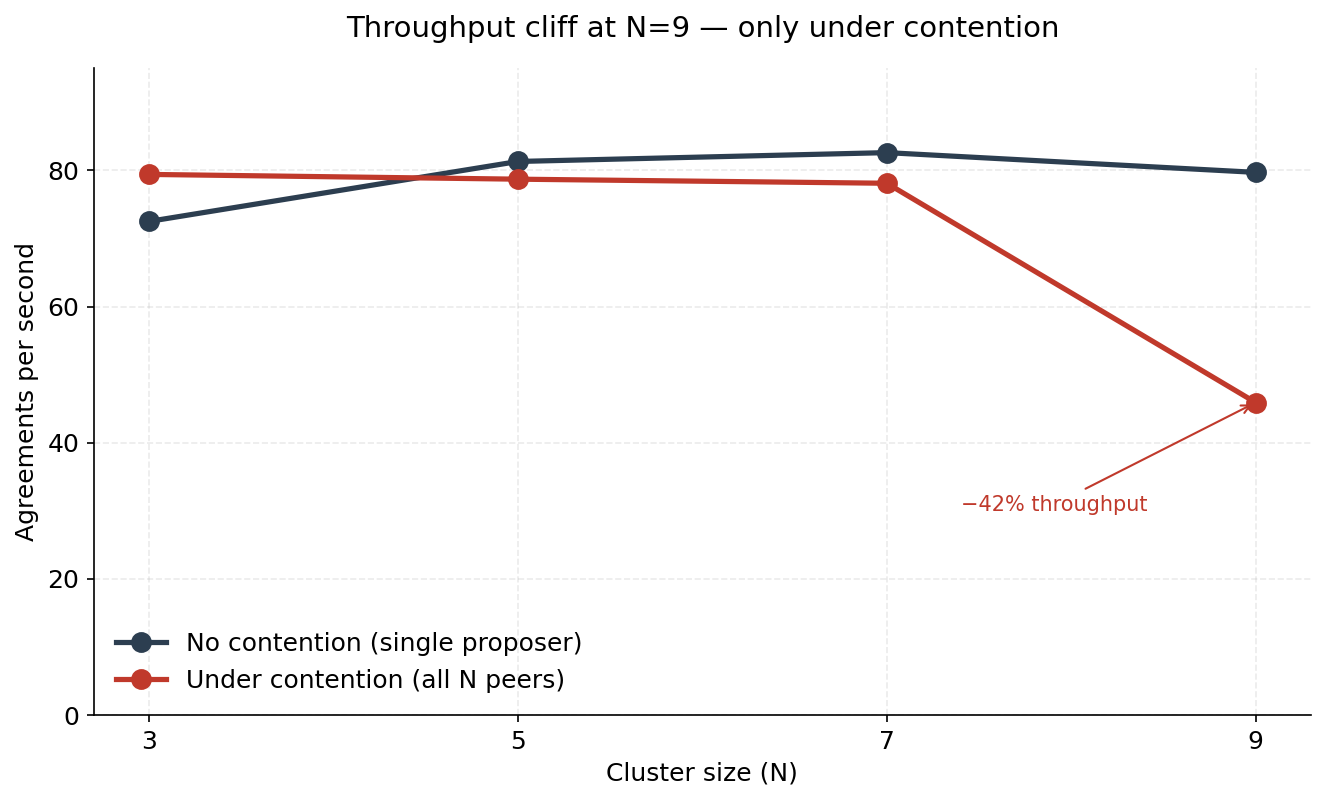
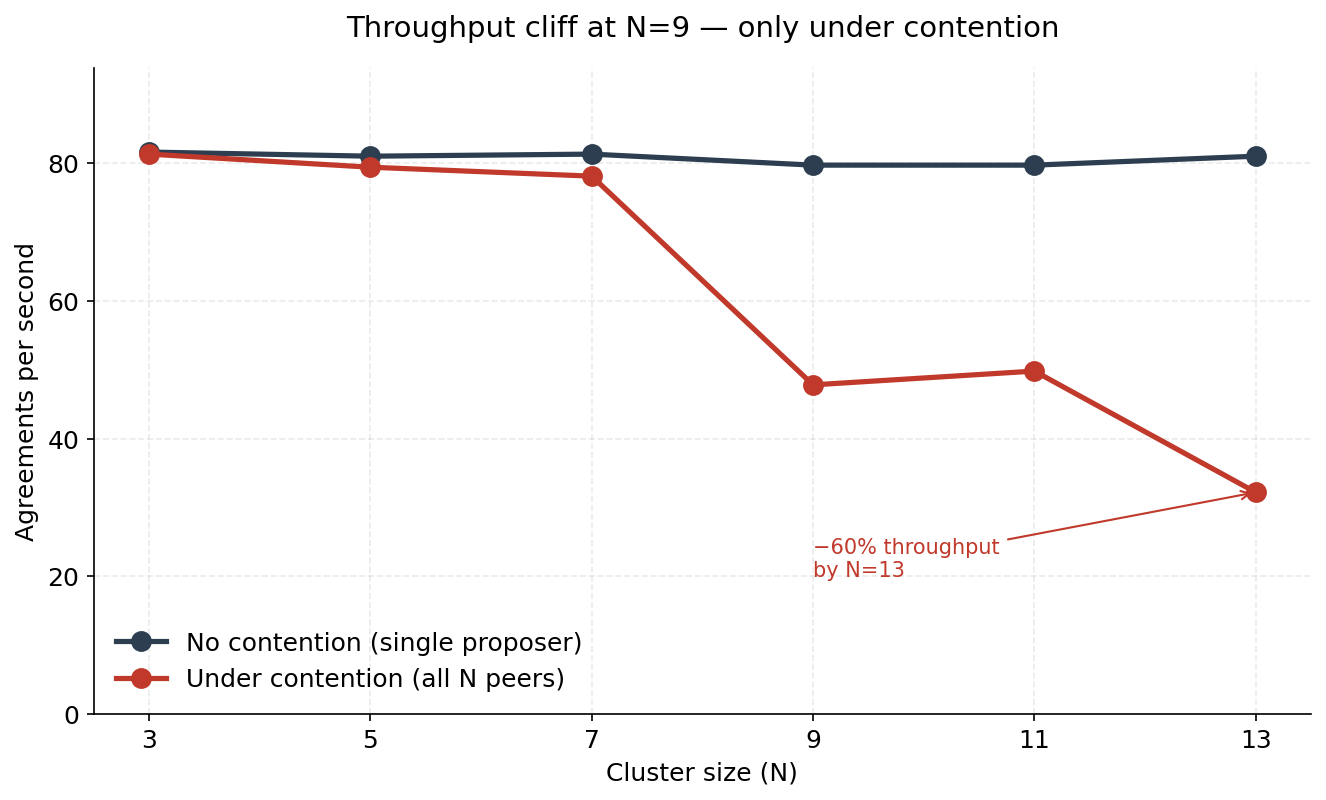
Extend scalability benchmarks and contention tests to N=13
Scalability tests (testScalabilityByClusterSize, testScalabilityUnderContention)
now run sizes {3, 5, 7, 9, 11, 13}. Key results at N=13:
  - Baseline: 81.0 agreements/sec, RPCs/agreement = 36 (matches 3*(N-1))
  - Contention: 32.2 agreements/sec, 201.6 RPCs/agreement (~60% drop from N=3)

Also adds testManyPeers (parameterized, n=11 and n=13) to verify correctness
at larger cluster sizes, not just throughput.

Plot script and charts updated with the new data points. Annotation now marks
the N=13 endpoint rather than N=9.

diff --git a/bench/plot_scalability.py b/bench/plot_scalability.py
@@ -15,18 +15,18 @@ Outputs two PNGs in bench/:
 import os
 import matplotlib.pyplot as plt
 
-SIZES = [3, 5, 7, 9]
+SIZES = [3, 5, 7, 9, 11, 13]
 
 # From testScalabilityByClusterSize (single proposer, no contention)
 BASELINE = {
-    "throughput":      [72.5, 81.3, 82.6, 79.7],  # agreements/sec
-    "rpcs_per_agree":  [6.0, 12.0, 18.0, 24.0],
+    "throughput":      [81.6, 81.0, 81.3, 79.7, 79.7, 81.0],  # agreements/sec
+    "rpcs_per_agree":  [6.0, 12.0, 18.0, 24.0, 30.0, 36.0],
 }
 
 # From testScalabilityUnderContention (all N peers propose per slot)
 CONTENTION = {
-    "throughput":      [79.4, 78.7, 78.1, 45.9],
-    "rpcs_per_agree":  [10.6, 33.2, 61.8, 105.6],
+    "throughput":      [81.3, 79.4, 78.1, 47.8, 49.8, 32.2],
+    "rpcs_per_agree":  [11.2, 32.4, 61.8, 104.0, 156.0, 201.6],
 }
 
 THEORETICAL_MIN = [3 * (n - 1) for n in SIZES]
@@ -64,10 +64,10 @@ def plot_rpcs():
     ax.set_xticks(SIZES)
     ax.legend(loc="upper left", frameon=False)
 
-    # Annotate the gap at N=9
+    # Annotate the gap at the largest cluster size
     ax.annotate(f"{CONTENTION['rpcs_per_agree'][-1]:.0f} actual\nvs {THEORETICAL_MIN[-1]} minimum",
-                xy=(9, CONTENTION["rpcs_per_agree"][-1]),
-                xytext=(7.2, 80),
+                xy=(SIZES[-1], CONTENTION["rpcs_per_agree"][-1]),
+                xytext=(9, 130),
                 fontsize=10, color="#2c3e50",
                 arrowprops=dict(arrowstyle="->", color="#7f8c8d", lw=1))
 
@@ -94,11 +94,11 @@ def plot_throughput():
     ax.set_ylim(0, max(BASELINE["throughput"]) * 1.15)
     ax.legend(loc="lower left", frameon=False)
 
-    # Annotate the cliff
+    # Annotate the total drop from N=3 to N=13
     drop_pct = (1 - CONTENTION["throughput"][-1] / CONTENTION["throughput"][0]) * 100
-    ax.annotate(f"−{drop_pct:.0f}% throughput",
-                xy=(9, CONTENTION["throughput"][-1]),
-                xytext=(7.4, 30),
+    ax.annotate(f"−{drop_pct:.0f}% throughput\nby N={SIZES[-1]}",
+                xy=(SIZES[-1], CONTENTION["throughput"][-1]),
+                xytext=(9, 20),
                 fontsize=10, color="#c0392b",
                 arrowprops=dict(arrowstyle="->", color="#c0392b", lw=1))
 

diff --git a/paxos-core/src/test/java/paxos/PaxosTest.java b/paxos-core/src/test/java/paxos/PaxosTest.java
@@ -1,6 +1,8 @@
 package paxos;
 
 import org.junit.jupiter.api.Test;
+import org.junit.jupiter.params.ParameterizedTest;
+import org.junit.jupiter.params.provider.ValueSource;
 
 import java.io.IOException;
 import java.net.ServerSocket;
@@ -185,7 +187,19 @@ public class PaxosTest {
 
     @Test
     void testMany() throws IOException {
-        final int n = 3, ninst = 30;
+        runMany(3, 30);
+    }
+
+    // Same contention pattern at larger cluster sizes.
+    // 11 and 13 peers means more proposers racing per sequence number,
+    // which exercises the backoff and proposal-number generation more heavily.
+    @ParameterizedTest(name = "testManyPeers n={0}")
+    @ValueSource(ints = {11, 13})
+    void testManyPeers(int n) throws IOException {
+        runMany(n, 30);
+    }
+
+    private void runMany(int n, int ninst) throws IOException {
         String[] addrs = freeAddrs(n);
         Paxos[] pxa = makeCluster(addrs);
         try {
@@ -259,7 +273,7 @@ public class PaxosTest {
     // the acceptor peers. Self-calls bypass the TCP listener and are free.
     @Test
     void testScalabilityByClusterSize() throws IOException {
-        int[] sizes   = {3, 5, 7, 9};
+        int[] sizes   = {3, 5, 7, 9, 11, 13};
         int   ninst   = 20; // agreements per cluster size (after warmup)
         int   warmup  = 5;
 
@@ -325,7 +339,7 @@ public class PaxosTest {
     //                          contention adds per extra node
     @Test
     void testScalabilityUnderContention() throws IOException {
-        int[] sizes  = {3, 5, 7, 9};
+        int[] sizes  = {3, 5, 7, 9, 11, 13};
         int   ninst  = 10; // fewer rounds: each can be expensive under contention
         int   warmup = 3;
 

diff --git a/bench/README.md b/bench/README.md
@@ -1,7 +1,7 @@
 # bench/ — scalability experiment
 
 Reproduces the throughput and RPC-cost curves for `paxos-core` as cluster size
-grows from N=3 to N=9, with and without proposer contention. The Java tests
+grows from N=3 to N=13, with and without proposer contention. The Java tests
 produce the raw numbers; the Python script renders them as charts.
 
 ## Run the experiment
@@ -31,11 +31,11 @@ Writes two PNGs into this directory:
   minimum of `3·(N−1)`. The gap widens with N, showing wasted work from
   failed Prepares and retries.
 - `throughput_vs_cluster_size.png` — agreements/sec for both runs. Baseline
-  is flat; contention falls off a cliff at N=9.
+  is flat; contention drops ~60% by N=13.
 
 ## What the charts show
 
-Under a single proposer, throughput is roughly constant from N=3 to N=9 —
+Under a single proposer, throughput is roughly constant from N=3 to N=13 —
 loopback TCP is fast, so adding peers doesn't meaningfully slow each round.
 RPCs/agreement sit exactly at `3·(N−1)`.
 